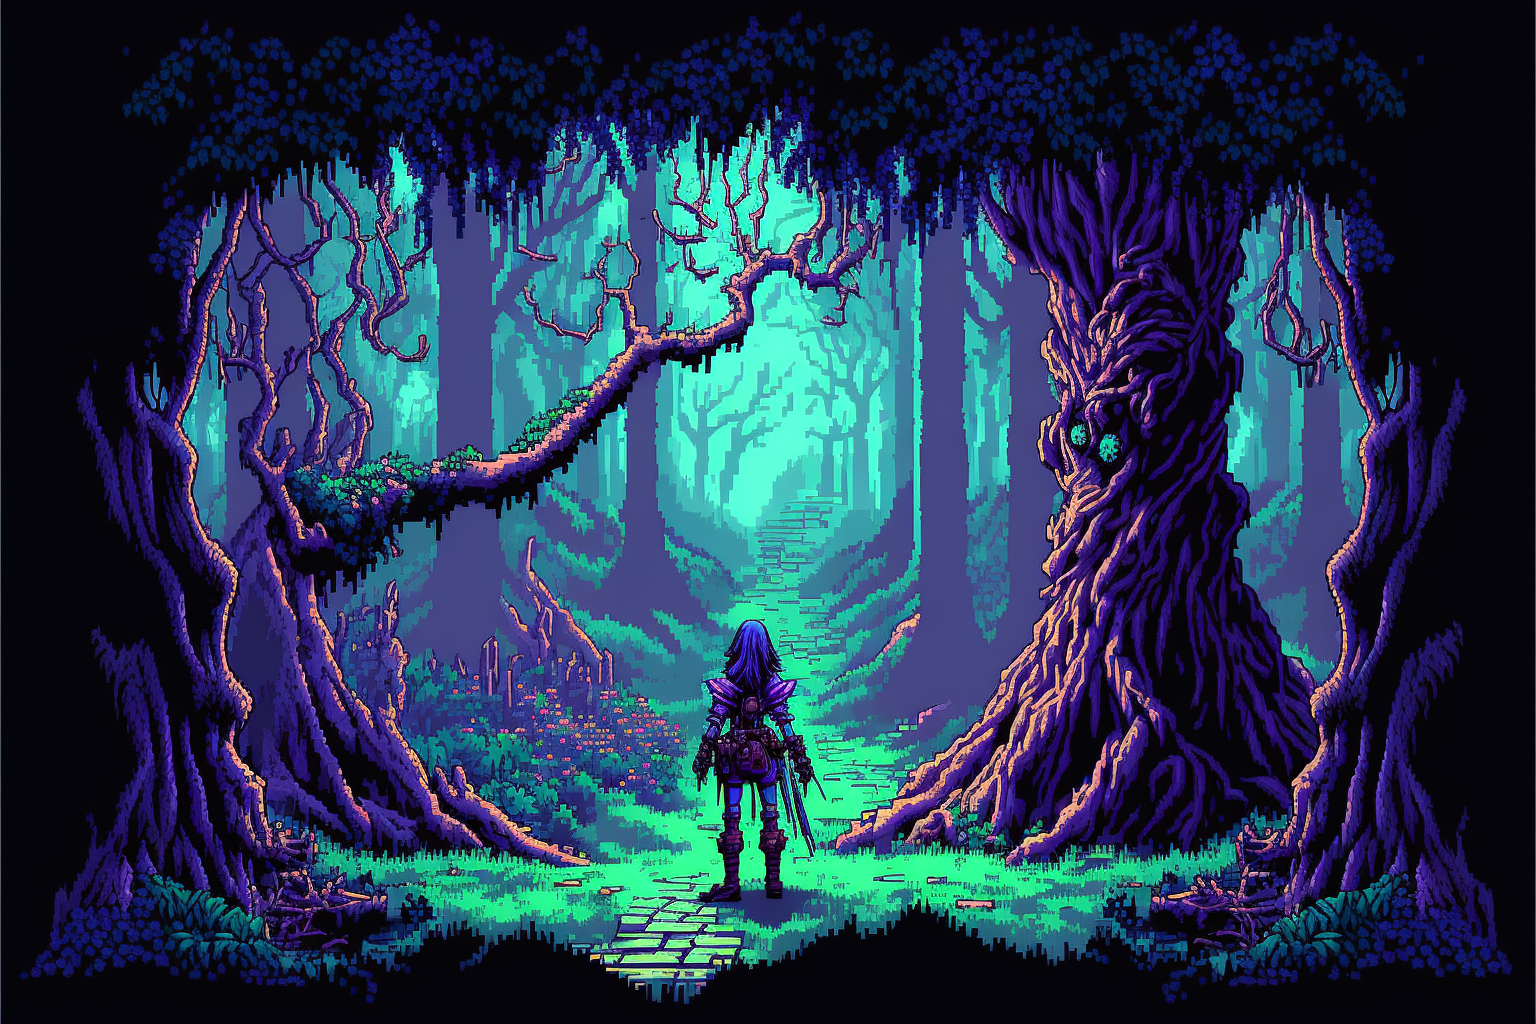
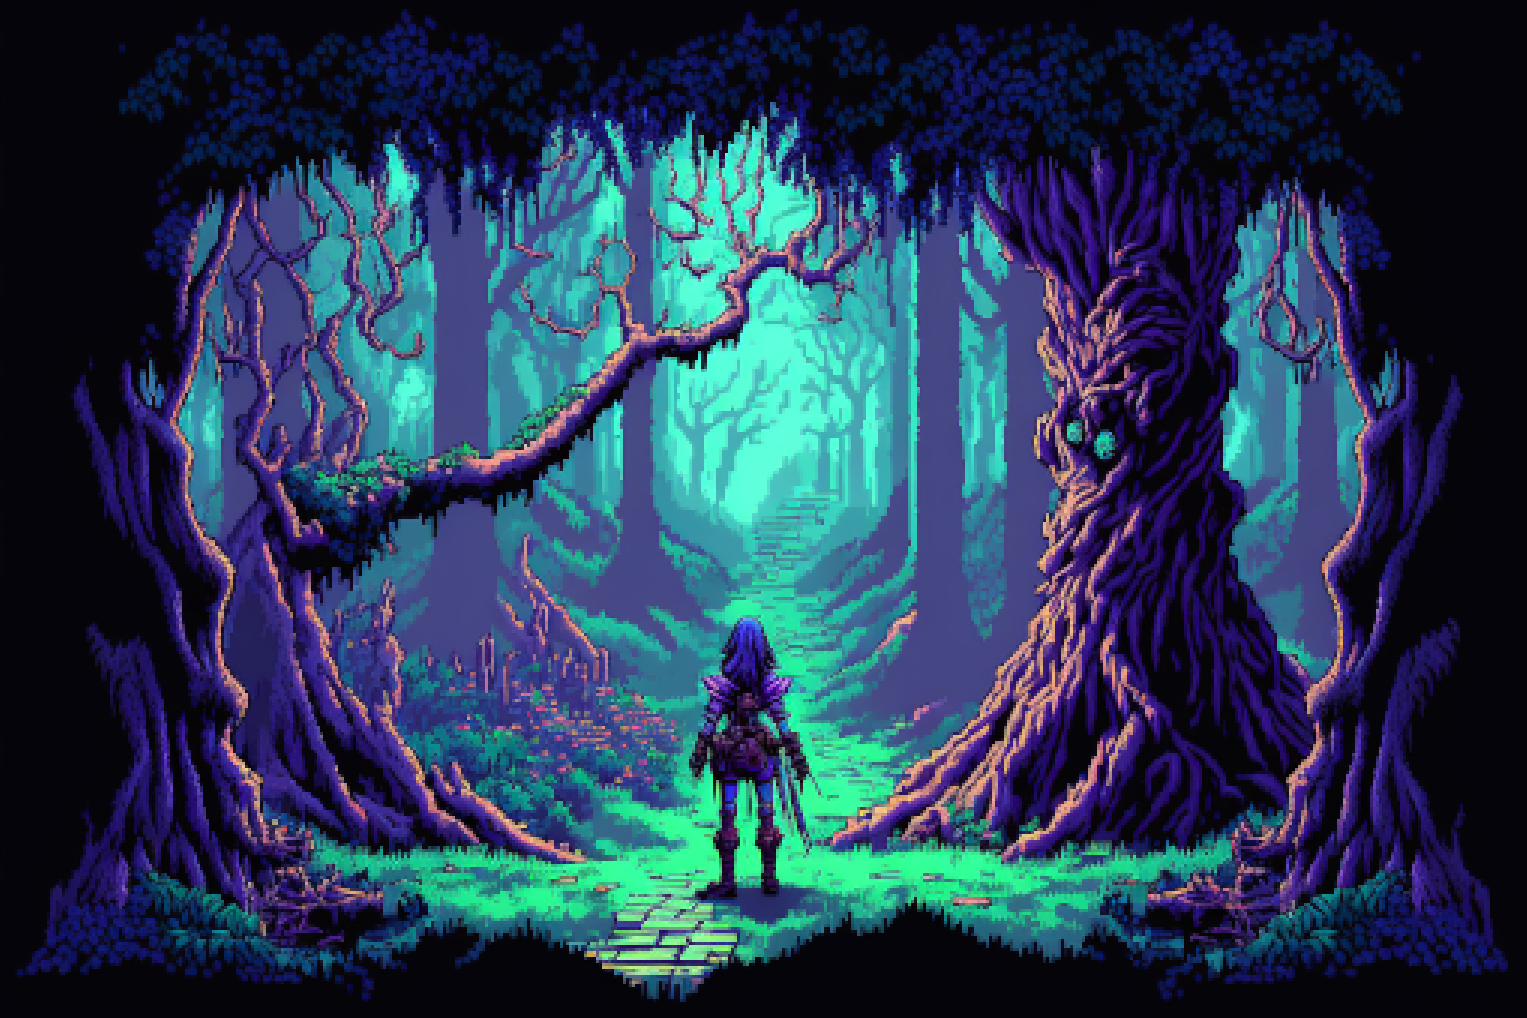
a few more tweaks on display and save button

diff --git a/assets/css/style.css b/assets/css/style.css
@@ -1,5 +1,5 @@
 body {
-    background-color: rgb(82, 57, 94);
+    background-color: #05040a;
 }
 
 header {
@@ -29,8 +29,9 @@ audio {
     border: 5px solid black;
     background-image: url(../images/backgrounds/start-screen-2.png);
     background-position: center;
+    background-repeat: no-repeat;
     height: 100vh;
-    width: 100%;
+    /* width: 100%; */
 }
 
 #start-info {
@@ -295,7 +296,7 @@ hr {
 #gameScreenGrid {
     background-image: url(../images/backgrounds/sun-shinning-through.png);
     border: #000 solid 5px;
-    background-size: contain;
+    background-size: cover;
     margin: 0;
     display: grid;
     grid-template-columns: repeat(5, auto);

diff --git a/assets/js/script.js b/assets/js/script.js
@@ -50,6 +50,7 @@ function savePlayerInfo() {
 		currScene: taleTracker,
 	};
 	localStorage.setItem("playerCharacter", JSON.stringify(playerCharacterSave));
+    console.log("save")
 }
 
 // Clear player character save and return to start page
@@ -99,9 +100,10 @@ musicEl.loop = true;
 // Header On-Click Events
 saveBtn.addEventListener("click", function(){
     if(!gameIsPlaying){
-        savePlayerInfo
+        savePlayerInfo()
     }
 });
+
 resetBtn.addEventListener("click", restartGame);
 titleBtn.addEventListener("click", function () {
 	location.href = "./index.html";

diff --git a/mainGame.html b/mainGame.html
@@ -108,7 +108,7 @@
             />
             <div id="weapon-info">
               <p id="weapon">Sword</p>
-              <p>Attack +<span id="attack">0</span></p>
+              <p>Attack +1<span id="attack">0</span></p>
             </div>
           </section>
         </section>
